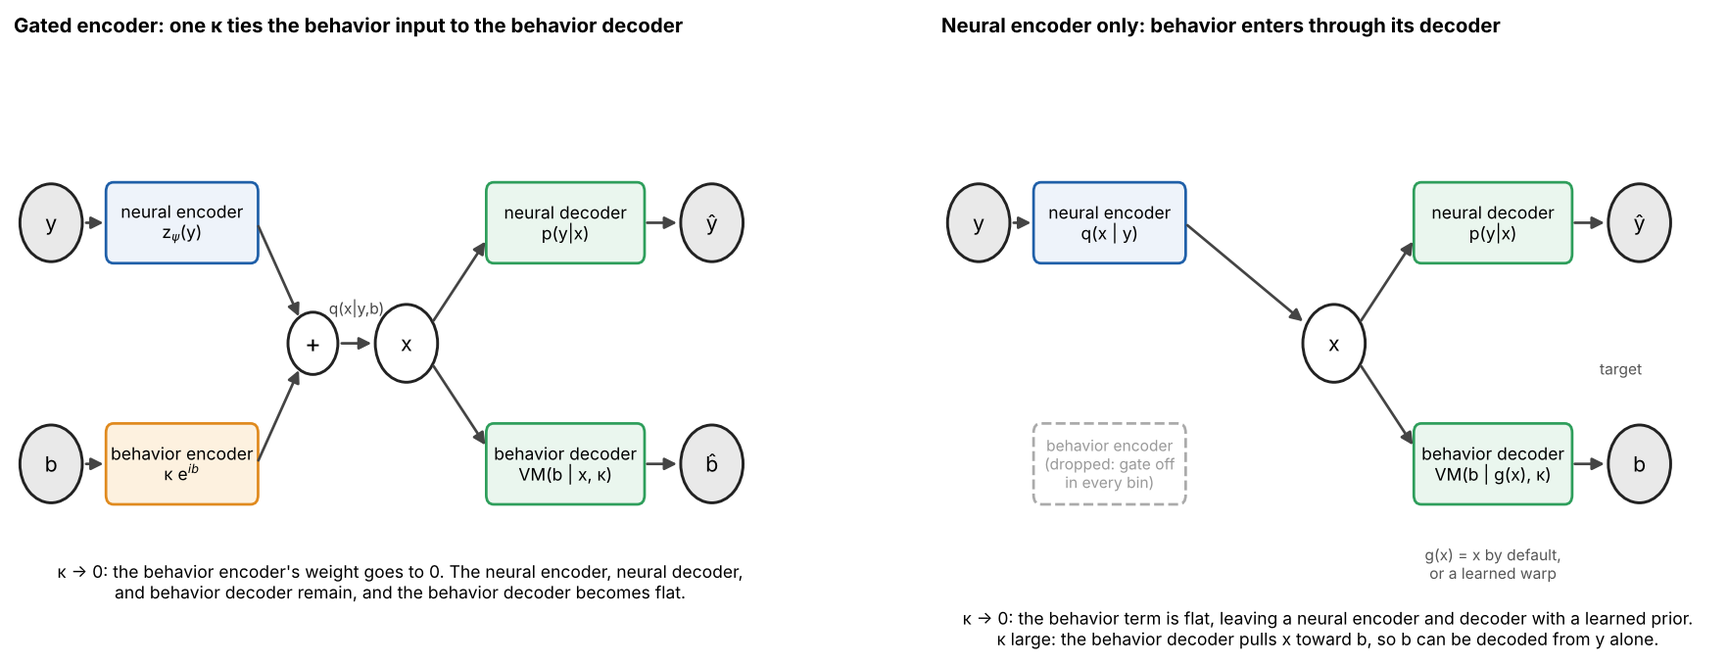
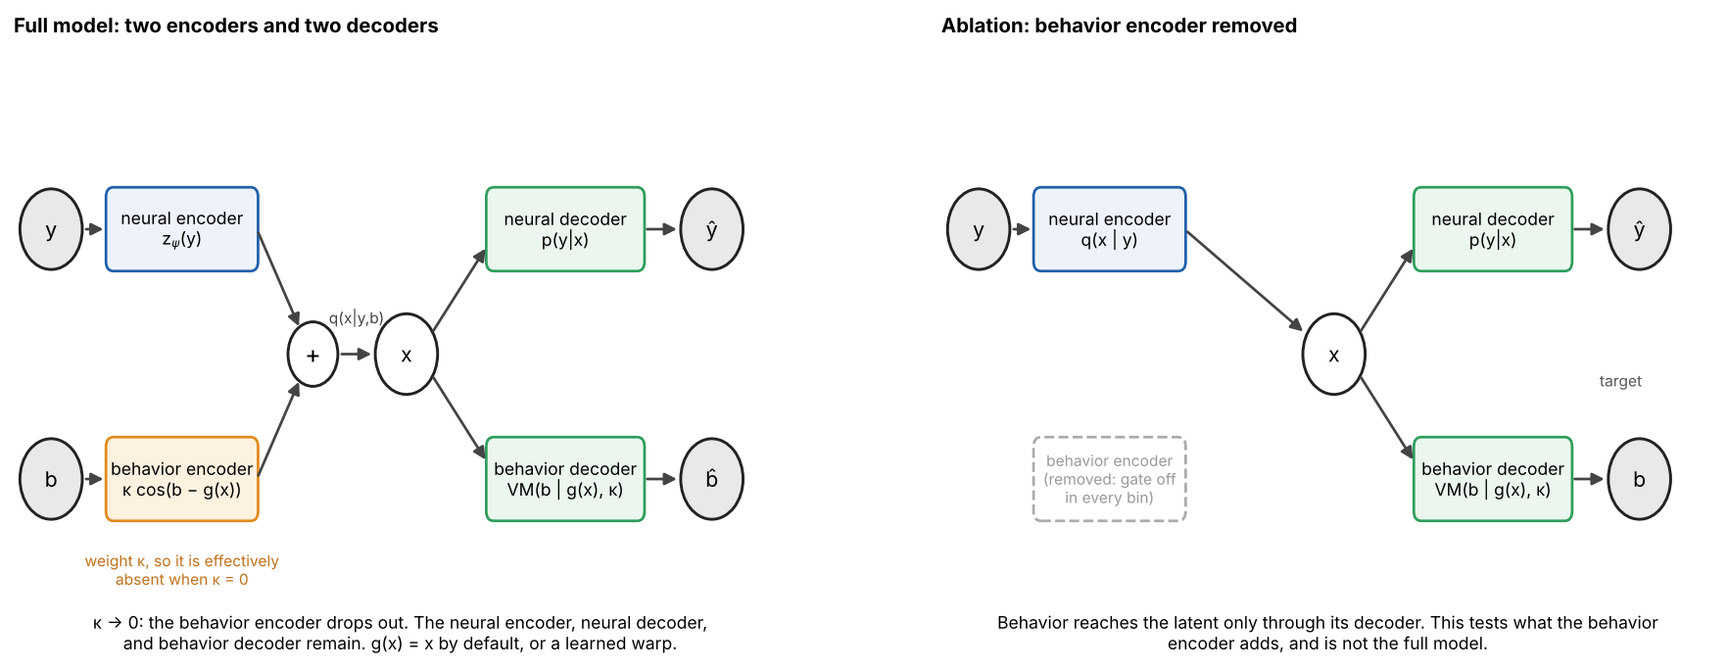
Correct the behavior-encoder framing: full model has both encoders, removal is an ablation; behavior encoder follows a learned decoder; new results, figures, tests

diff --git a/scripts/make_figures.py b/scripts/make_figures.py
@@ -368,22 +368,23 @@ def fig_kernel_results():
 
 # --------------------------------------------------- neural-encoder-only variant
 
-VCOL = {"gated_encoder": "#1f5fa8", "neural_encoder_only": "#e08a1e", "neural_encoder_only_warp": "#2e9e5b"}
-VLAB = {"gated_encoder": "gated encoder", "neural_encoder_only": "neural encoder only",
-        "neural_encoder_only_warp": "neural encoder only + learned behavior decoder"}
+VCOL = {"gated_encoder": "#1f5fa8", "gated_encoder_warp": "#2e9e5b", "neural_encoder_only": "#e08a1e",
+        "neural_encoder_only_warp": "#f2c27a"}
+VLAB = {"gated_encoder": "full model (both encoders)", "gated_encoder_warp": "full model + learned behavior decoder",
+        "neural_encoder_only": "ablation: behavior encoder removed", "neural_encoder_only_warp": "ablation + learned behavior decoder"}
 
 
 def fig_variant():
     r = json.load(open("results/neural_encoder_variant.json"))
     names = list(VCOL)
     fig, axs = plt.subplots(1, 3, figsize=(16, 4.3), gridspec_kw={"wspace": 0.32})
-    w = 0.26
+    w = 0.2
 
     def bars(ax, x, key, metric, per_seed=True):
         for ni, n in enumerate(names):
             vals = [x_[metric] for x_ in r[key[0]][key[1]][n]]
-            ax.bar(x + (ni - 1) * w, np.mean(vals), w, color=VCOL[n])
-            if per_seed: ax.scatter([x + (ni - 1) * w] * len(vals), vals, color="#444444", s=10, zorder=3)
+            ax.bar(x + (ni - 1.5) * w, np.mean(vals), w, color=VCOL[n])
+            if per_seed: ax.scatter([x + (ni - 1.5) * w] * len(vals), vals, color="#444444", s=10, zorder=3)
 
     ax = axs[0]
     ks = ["kappa8", "kappa3", "kappa0.5"]
@@ -397,7 +398,7 @@ def fig_variant():
     ax = axs[1]
     for ci, k in enumerate(["kappa8", "kappa3"]):
         bars(ax, ci, ("weak", k), "kappa")
-        ax.hlines(float(k[5:]), ci - 0.45, ci + 0.45, color="#222222", ls="--", lw=1)
+        ax.hlines(float(k[5:]), ci - 0.5, ci + 0.5, color="#222222", ls="--", lw=1)
     ax.set_xticks(range(2)); ax.set_xticklabels(["true κ = 8", "true κ = 3"]); ax.set_ylabel("learned κ")
     ax.set_title("Weak neural information (N = 8): learned κ", loc="left")
     ax = axs[2]
@@ -406,16 +407,16 @@ def fig_variant():
     ax.scatter([0], [raw], marker="_", s=500, color="#888888", zorder=2)
     for ni, n in enumerate(names):
         k = np.mean([x["kappa"] for x in r["biased"]["kappa6"][n]])
-        ax.text((ni - 1) * w, 0.003, f"κ {k:.1f}", ha="center", va="bottom", fontsize=8, color="white")
+        ax.text((ni - 1.5) * w, 0.003, f"κ {k:.1f}", ha="center", va="bottom", fontsize=7, color="white")
     ax.set_xticks([0]); ax.set_xticklabels(["b = x + 0.4 + 0.5 sin x, κ = 6"])
-    ax.set_xlim(-0.6, 0.6); ax.set_ylabel("error decoding mean behavior from neural activity (rad)")
+    ax.set_xlim(-0.7, 0.7); ax.set_ylabel("error decoding mean behavior from neural activity (rad)")
     ax.set_title("Systematic offset between latent and behavior", loc="left")
     from matplotlib.lines import Line2D
     from matplotlib.patches import Patch
     handles = [Patch(color=VCOL[n], label=VLAB[n]) for n in names] + [
         Line2D([], [], color="#888888", marker="_", ms=14, ls="", label="raw measured behavior (panels 1 and 3)"),
         Line2D([], [], color="#444444", marker="o", ms=4, ls="", label="single seed (bars are means)")]
-    fig.legend(handles=handles, loc="lower center", ncol=5, frameon=False, fontsize=8, bbox_to_anchor=(0.5, -0.1))
+    fig.legend(handles=handles, loc="lower center", ncol=3, frameon=False, fontsize=8, bbox_to_anchor=(0.5, -0.16))
     fig.savefig(f"{OUT}/neural_encoder_variant.png")
     plt.close(fig)
 
@@ -424,34 +425,33 @@ def fig_variant():
 
 def fig_architecture():
     ENC, DEC, BEH = ("#eef3fa", "#1f5fa8"), ("#eaf6ee", "#2e9e5b"), ("#fdf1df", "#e08a1e")
-    fig, axs = plt.subplots(1, 2, figsize=(16, 5.6))
+    fig, axs = plt.subplots(1, 2, figsize=(16, 5.8))
     for ax in axs:
         ax.set_xlim(0, 12.4); ax.set_ylim(0, 7.6); ax.axis("off")
-    # ---- tied gate
     ax = axs[0]
-    ax.set_title("Gated encoder: one κ ties the behavior input to the behavior decoder", loc="left", fontweight="bold", fontsize=10.5)
+    ax.set_title("Full model: two encoders and two decoders", loc="left", fontweight="bold", fontsize=10.5)
     node(ax, (0.6, 5.3), 0.5, "y", fc="#e9e9e9"); node(ax, (0.6, 2.2), 0.5, "b", fc="#e9e9e9")
     box(ax, (1.5, 4.8), 2.4, 1.0, "neural encoder\nz$_ψ$(y)", fc=ENC[0], ec=ENC[1], fs=9)
-    box(ax, (1.5, 1.7), 2.4, 1.0, "behavior encoder\nκ e$^{ib}$", fc=BEH[0], ec=BEH[1], fs=9)
+    box(ax, (1.5, 1.7), 2.4, 1.0, "behavior encoder\nκ cos(b − g(x))", fc=BEH[0], ec=BEH[1], fs=9)
     arrow(ax, (1.1, 5.3), (1.5, 5.3)); arrow(ax, (1.1, 2.2), (1.5, 2.2))
     node(ax, (4.8, 3.75), 0.4, "+", fs=13)
     arrow(ax, (3.9, 5.3), (4.6, 4.05)); arrow(ax, (3.9, 2.2), (4.6, 3.45))
     node(ax, (6.3, 3.75), 0.5, "x")
     arrow(ax, (5.2, 3.75), (5.8, 3.75), "q(x|y,b)", off=(0, 0.45), fs=8)
     box(ax, (7.6, 4.8), 2.5, 1.0, "neural decoder\np(y|x)", fc=DEC[0], ec=DEC[1], fs=9)
-    box(ax, (7.6, 1.7), 2.5, 1.0, "behavior decoder\nVM(b | x, κ)", fc=DEC[0], ec=DEC[1], fs=9)
+    box(ax, (7.6, 1.7), 2.5, 1.0, "behavior decoder\nVM(b | g(x), κ)", fc=DEC[0], ec=DEC[1], fs=9)
     arrow(ax, (6.7, 4.0), (7.6, 5.1)); arrow(ax, (6.7, 3.5), (7.6, 2.4))
     node(ax, (11.2, 5.3), 0.5, "ŷ", fc="#e9e9e9"); node(ax, (11.2, 2.2), 0.5, "b̂", fc="#e9e9e9")
     arrow(ax, (10.1, 5.3), (10.7, 5.3)); arrow(ax, (10.1, 2.2), (10.7, 2.2))
-    ax.text(6.2, 0.95, "κ → 0: the behavior encoder's weight goes to 0. The neural encoder, neural decoder,\nand behavior decoder remain, and the behavior decoder becomes flat.",
+    ax.text(2.7, 1.3, "weight κ, so it is effectively\nabsent when κ = 0", fontsize=8, color="#c0701a", ha="center", va="top")
+    ax.text(6.2, 0.55, "κ → 0: the behavior encoder drops out. The neural encoder, neural decoder,\nand behavior decoder remain. g(x) = x by default, or a learned warp.",
             ha="center", va="top", fontsize=9)
-    # ---- neural encoder only
     ax = axs[1]
-    ax.set_title("Neural encoder only: behavior enters through its decoder", loc="left", fontweight="bold", fontsize=10.5)
+    ax.set_title("Ablation: behavior encoder removed", loc="left", fontweight="bold", fontsize=10.5)
     node(ax, (0.6, 5.3), 0.5, "y", fc="#e9e9e9")
     box(ax, (1.5, 4.8), 2.4, 1.0, "neural encoder\nq(x | y)", fc=ENC[0], ec=ENC[1], fs=9)
     arrow(ax, (1.1, 5.3), (1.5, 5.3))
-    box(ax, (1.5, 1.7), 2.4, 1.0, "behavior encoder\n(dropped: gate off\nin every bin)", fc="white", ec="#aaaaaa", fs=8, ls="--", tc="#999999")
+    box(ax, (1.5, 1.7), 2.4, 1.0, "behavior encoder\n(removed: gate off\nin every bin)", fc="white", ec="#aaaaaa", fs=8, ls="--", tc="#999999")
     node(ax, (6.3, 3.75), 0.5, "x")
     arrow(ax, (3.9, 5.3), (5.85, 4.0))
     box(ax, (7.6, 4.8), 2.5, 1.0, "neural decoder\np(y|x)", fc=DEC[0], ec=DEC[1], fs=9)
@@ -460,8 +460,7 @@ def fig_architecture():
     node(ax, (11.2, 5.3), 0.5, "ŷ", fc="#e9e9e9"); node(ax, (11.2, 2.2), 0.5, "b", fc="#e9e9e9")
     arrow(ax, (10.1, 5.3), (10.7, 5.3)); arrow(ax, (10.1, 2.2), (10.7, 2.2))
     ax.text(10.9, 3.35, "target", fontsize=8, color="#555555", ha="center")
-    ax.text(8.85, 1.15, "g(x) = x by default,\nor a learned warp", fontsize=8, color="#555555", ha="center", va="top")
-    ax.text(6.2, 0.35, "κ → 0: the behavior term is flat, leaving a neural encoder and decoder with a learned prior.\nκ large: the behavior decoder pulls x toward b, so b can be decoded from y alone.",
+    ax.text(6.2, 0.55, "Behavior reaches the latent only through its decoder. This tests what the behavior\nencoder adds, and is not the full model.",
             ha="center", va="top", fontsize=9)
     fig.savefig(f"{OUT}/architecture_variants.png")
     plt.close(fig)

diff --git a/scripts/neural_encoder_variant.py b/scripts/neural_encoder_variant.py
@@ -1,10 +1,13 @@
 """Neural-encoder-only variant versus the gated encoder.
 
-gated_encoder             : the behavior expert enters the encoder with weight kappa (gate on in 90% of
-                            bins during training), and the behavior decoder VM(b | x, kappa) is in the ELBO.
-neural_encoder_only       : the encoder never sees behavior (gate off in every bin). Behavior enters only
-                            through the behavior decoder VM(b | x, kappa), which is kept.
-neural_encoder_only_warp  : as above, with a learned map g(x) from latent to mean behavior (3 harmonics).
+gated_encoder             : the full model. Both encoders are present, and the behavior encoder (a von Mises
+                            expert with weight kappa) drops out as kappa goes to 0. The behavior decoder
+                            VM(b | x, kappa) is in the ELBO. The gate is on in 90% of bins during training.
+gated_encoder_warp        : as above, with a learned map g(x) from latent to mean behavior (3 harmonics).
+                            The behavior encoder uses the same map, kappa cos(b - g(x)).
+neural_encoder_only       : ablation. The behavior encoder is removed (gate off in every bin), and behavior
+                            enters only through the behavior decoder.
+neural_encoder_only_warp  : the ablation with the learned map g(x).
 
 All variants are scored on held-out bins with the behavior input removed at test time: the error of
 decoding behavior from neural activity alone, g(mu(y)) against the noise-free mean behavior, plus held-out
@@ -23,6 +26,7 @@ from amortized_eiv import model as m
 
 VARIANTS = {
     "gated_encoder": dict(p_drop=0.1, cfg={}),
+    "gated_encoder_warp": dict(p_drop=0.1, cfg={"beh_warp": 3}),
     "neural_encoder_only": dict(p_drop=1.0, cfg={}),
     "neural_encoder_only_warp": dict(p_drop=1.0, cfg={"beh_warp": 3}),
 }
@@ -70,8 +74,10 @@ if __name__ == "__main__":
     ap = argparse.ArgumentParser()
     ap.add_argument("--steps", type=int, default=3000)
     ap.add_argument("--seeds", type=int, nargs="+", default=[0, 1])
+    ap.add_argument("--only", nargs="+", default=None, help="run only these variants and merge into the saved results")
     a = ap.parse_args()
-    out = {"strong": {}, "weak": {}, "biased": {}, "noisy": {}}
+    variants = {k: v for k, v in VARIANTS.items() if a.only is None or k in a.only}
+    out = json.load(open("results/neural_encoder_variant.json")) if a.only else {"strong": {}, "weak": {}, "biased": {}, "noisy": {}}
     bias = lambda x: x + 0.4 + 0.5 * np.sin(x)
     for seed in a.seeds:
         sets = [("strong", ae.simulate_shared(seed=seed, N=30, kappas=(8.0, 3.0, 0.5), tuning="gp")),
@@ -79,12 +85,12 @@ if __name__ == "__main__":
                 ("biased", ae.simulate_shared(seed=seed, N=30, kappas=(6.0,), tuning="gp", behavior_map=bias))]
         for grp, d in sets:
             for i, k in enumerate(d["kappas"]):
-                for name, v in VARIANTS.items():
+                for name, v in variants.items():
                     r = score(d, i, v, a.steps, seed)
                     out[grp].setdefault(f"kappa{k:g}", {}).setdefault(name, []).append(r)
                     print(grp, k, seed, name, {x: round(y, 3) for x, y in r.items()}, flush=True)
         json.dump(out, open("results/neural_encoder_variant.json", "w"), indent=2)
-    for name in ("gated_encoder", "neural_encoder_only"):
+    for name in (() if a.only else ("gated_encoder", "neural_encoder_only")):
         out["noisy"][name] = noisy(name, a.steps)
         print("noisy", name, {x: round(y, 3) for x, y in out["noisy"][name].items()}, flush=True)
     json.dump(out, open("results/neural_encoder_variant.json", "w"), indent=2)

diff --git a/amortized_eiv/model.py b/amortized_eiv/model.py
@@ -125,6 +125,19 @@ def log_q_grid(z, cfg: Config):
     return jax.nn.log_softmax(logits, axis=-1)
 
 
+def encoder_logq(params, cfg: Config, feat, b, gate):
+    """log q(x_g | y, b) on the grid. The neural expert is a von Mises term from the network on y.
+    The behavior expert is gate * cos(b - g(x_g)), which is the behavior decoder's likelihood as a
+    function of x. With g = identity this equals adding gate * exp(ib) to the complex parameter,
+    so the behavior encoder is present and drops out as the gate goes to 0."""
+    z_y = _mlp(params["enc"], feat)
+    g = grid(cfg)
+    logits = z_y[:, 0:1] * jnp.cos(g) + z_y[:, 1:2] * jnp.sin(g)
+    gx = beh_mean_at(params, cfg, g)
+    logits = logits + gate[:, None] * jnp.cos(b[:, None] - gx[None, :])
+    return jax.nn.log_softmax(logits, axis=-1)
+
+
 def log_prior_grid(params, cfg: Config):
     g = grid(cfg)
     if not cfg.learn_prior:
@@ -172,8 +185,7 @@ def elbo_per_bin(params, cfg: Config, feat, y, b, cond, gate_mask=None):
     """Per-bin ELBO on log p(y_t, b_t), and the exact grid log marginal."""
     kap = kappas(params, cfg)[cond]
     gate = kap if gate_mask is None else kap * gate_mask
-    z = encoder_z(params, feat, b, gate)
-    logq = log_q_grid(z, cfg)
+    logq = encoder_logq(params, cfg, feat, b, gate)
     joint = (log_prior_grid(params, cfg)[None, :]
              + log_lik_grid(params, cfg, y)
              + log_beh_grid(cfg, b, kap, params))
@@ -214,7 +226,7 @@ def posterior(params, cfg: Config, feat, b, cond, use_behavior=True):
     """Posterior mean direction mu_t, resultant length rho_t, and q on the grid."""
     kap = kappas(params, cfg)[cond]
     gate = kap if use_behavior else jnp.zeros_like(kap)
-    q = jnp.exp(log_q_grid(encoder_z(params, feat, b, gate), cfg))
+    q = jnp.exp(encoder_logq(params, cfg, feat, b, gate))
     c = (q * jnp.exp(1j * grid(cfg))[None, :]).sum(-1)
     return jnp.angle(c), jnp.abs(c), q
 

diff --git a/tests/test_variant.py b/tests/test_variant.py
@@ -34,3 +34,31 @@ def test_simulator_reports_the_mean_behavior():
     err = np.abs(np.angle(np.exp(1j * (d["b"][0] - d["b_mean"]))))
     assert err.mean() < 0.2
     np.testing.assert_allclose(d["b_mean"], f(d["x"]))
+
+
+def test_behavior_encoder_matches_the_complex_parameter_form_and_drops_out_at_zero():
+    d = simulate_shared(seed=2, N=10, T=60, kappas=(3.0,), tuning="gp")
+    y, b = jnp.asarray(d["y"]), jnp.asarray(d["b"][0])
+    cfg = Config(N=10, G=64)
+    p = init_params(jax.random.PRNGKey(0), cfg, y)
+    feat, _ = features(y)
+    gate = jnp.full((60,), 2.5)
+    old = m.log_q_grid(m.encoder_z(p, feat, b, gate), cfg)
+    new = m.encoder_logq(p, cfg, feat, b, gate)
+    np.testing.assert_allclose(old, new, atol=1e-5)                 # identity decoder: same encoder
+    off = m.encoder_logq(p, cfg, feat, b, jnp.zeros(60))
+    np.testing.assert_allclose(off, m.log_q_grid(m.encoder_z(p, feat, b, jnp.zeros(60)), cfg), atol=1e-5)
+
+
+def test_behavior_encoder_follows_the_learned_decoder():
+    d = simulate_shared(seed=3, N=10, T=40, kappas=(3.0,), tuning="gp")
+    y, b = jnp.asarray(d["y"]), jnp.asarray(d["b"][0])
+    cfg = Config(N=10, G=64, beh_warp=2)
+    p = init_params(jax.random.PRNGKey(0), cfg, y)
+    p["warp"] = jnp.array([0.6, 0.2, 0.0, 0.0, 0.0])                # shifts the decoder's mean by 0.6 rad
+    feat, _ = features(y)
+    big = jnp.full((40,), 200.0)                                   # behavior expert dominates
+    mu = np.asarray(jnp.angle((jnp.exp(m.encoder_logq(p, cfg, feat, b, big))
+                               * jnp.exp(1j * m.grid(cfg))[None, :]).sum(-1)))
+    back = np.asarray(m.beh_mean_at(p, cfg, jnp.asarray(mu)))       # g(mu) should land on b
+    assert np.abs(np.angle(np.exp(1j * (back - np.asarray(b))))).mean() < 0.15

diff --git a/README.md b/README.md
@@ -65,7 +65,7 @@ On the ring the latent lives on a grid of 128 points, so the ELBO is an exact su
 - When behavior is nearly noise, the fit reproduces the neural mean rates and covariance.
 - In one dimension the amortized model is not faster, except that learning κ in one fit is about 6 times cheaper than a grid over κ with folds. Baselines can learn κ too.
 - In a 2D latent the amortized model is cheaper per step but fits worse and underestimates κ.
-- A neural-only encoder with a separate behavior decoder (no behavior input) matches the gated encoder with strong neural information and loses with weak information. A learned behavior decoder helps when behavior is offset from the latent.
+- Removing the behavior encoder costs κ accuracy with weak neural information. A learned behavior decoder, with both encoders kept, recovers κ and decodes behavior when behavior is offset from the latent.
 - Replacing the Matérn-type tuning prior with an infinitely wide ReLU network kernel (NNGP) brings no gain over a smoother Matérn prior. Depth 1 fails when tuning curves have energy at odd harmonics above 1.
 
 ![Scorecard against a preprint-style baseline](figures/scorecard.png)
@@ -229,50 +229,56 @@ Setup (`scripts/kernel_comparison.py`, `scripts/kernel_torus2d.py`, about 15 min
 
 In this test an architecture-derived prior brought no advantage over tuning the smoothness of the Matérn prior. Choosing the smoothness by cross-validation, as the preprint does for its kernel hyperparameters, is the better comparison and is untested.
 
-### Neural encoder only, with a separate behavior decoder
+### Both encoders, an ablation, and a learned behavior decoder
 
-The gated encoder ties the behavior input to the behavior decoder through a single κ. An alternative keeps two encoders and two decoders and drops the behavior encoder entirely. The encoder q(x | y) sees only neural activity. Behavior enters only through its decoder p(b | x), which is a von Mises density around the latent with concentration κ, or equivalently through the conditional prior p(x | b). When behavior is noisy, κ goes to 0 and the behavior term is flat. The model is then a neural encoder and decoder with a learned prior. When behavior is clean, the behavior decoder pulls the latent toward behavior, so behavior can be decoded from neural activity alone. In the code this is `fit(..., p_drop=1.0)`, which sets the gate to zero in every bin. The generative model is unchanged.
+The model has a neural encoder and decoder and a behavior encoder and decoder. The behavior encoder is a von Mises term with weight κ, so it is effectively absent when κ is 0. The neural encoder, the neural decoder, and the behavior decoder stay. This is the gated encoder described above. An earlier version of this section presented removing the behavior encoder as a second formulation. It is an ablation, and it is reported here as one.
 
 ![Architecture variants](figures/architecture_variants.png)
 
-*Left: the gated encoder, where one κ sets both the behavior encoder's weight and the behavior decoder's precision. Right: the neural-encoder-only variant, where the behavior encoder is absent and behavior enters through its decoder. In both, setting κ to 0 leaves the neural encoder and decoder in place.*
+*Left: the full model, with a behavior encoder whose weight is κ. Right: the ablation, with the behavior encoder removed so that behavior reaches the latent only through its decoder.*
 
-A further option learns the behavior decoder. With `Config(beh_warp=3)` the mean direction of behavior is g(x) = x + w₀ + Σ (aₖ sin kx + cₖ cos kx), where the weights start at 0 so g starts as the identity. The gate cannot do this, because its behavior input assumes that behavior is centered on the latent.
+Two things are tested against the full model. The ablation removes the behavior encoder in every bin (`fit(..., p_drop=1.0)`). The generative model is unchanged. The learned behavior decoder is selected with `Config(beh_warp=3)`. The mean direction of behavior becomes g(x) = x + w₀ + Σ (aₖ sin kx + cₖ cos kx), where the weights start at 0 so g starts as the identity. The behavior encoder uses the same map, κ cos(b − g(x)), so both encoders stay present.
 
-![Neural encoder only](figures/neural_encoder_variant.png)
+![Variant comparison](figures/neural_encoder_variant.png)
 
 *Left: error of decoding mean behavior from neural activity alone, with strong neural information. Middle: learned κ with weak neural information, with the dashed line at the true value. Right: behavior generated as b = x + 0.4 + 0.5 sin x plus von Mises noise with κ = 6. Grey ticks are the error of the raw measured behavior against the noise-free mean.*
 
-Setup (`scripts/neural_encoder_variant.py`, about 12 minutes). Ring data with 80% of the bins for training and 20% for scoring, κ learned for 3000 steps, and 2 seeds. All variants are scored without the behavior input at test time: the error of g(μ(y)) against the noise-free mean behavior, which is known only in simulation, together with held-out log p(y | b) and learned κ. Strong neural information is N = 30 with GP tuning. Weak is N = 8 with low rates. In the offset data the mean behavior is b = x + 0.4 + 0.5 sin x.
+Setup (`scripts/neural_encoder_variant.py`, about 16 minutes). Ring data with 80% of the bins for training and 20% for scoring, κ learned for 3000 steps, and 2 seeds. All variants are scored without the behavior input at test time: the error of g(μ(y)) against the noise-free mean behavior, which is known only in simulation, together with held-out log p(y | b) and learned κ. Strong neural information is N = 30 with GP tuning. Weak is N = 8 with low rates. In the offset data the mean behavior is b = x + 0.4 + 0.5 sin x.
 
 | Data, true κ | Variant | κ learned | Held-out log p(y given b) | Behavior-decode error (rad), seeds | Raw behavior error (rad) |
 | --- | --- | --- | --- | --- | --- |
-| strong neural information, 8.0 | Gated encoder | 8.01 | −56.563 | 0.073 (0.07, 0.07) | 0.277 |
-| strong neural information, 8.0 | Neural encoder only | 7.81 | −56.560 | 0.072 (0.07, 0.07) | 0.277 |
-| strong neural information, 8.0 | Neural encoder only, learned behavior decoder | 7.89 | −56.558 | 0.073 (0.07, 0.07) | 0.277 |
-| strong neural information, 3.0 | Gated encoder | 2.95 | −57.187 | 0.079 (0.07, 0.08) | 0.537 |
-| strong neural information, 3.0 | Neural encoder only | 2.94 | −57.185 | 0.076 (0.08, 0.08) | 0.537 |
-| strong neural information, 3.0 | Neural encoder only, learned behavior decoder | 2.95 | −57.188 | 0.082 (0.07, 0.09) | 0.537 |
-| strong neural information, 0.5 | Gated encoder | 0.42 | −57.968 | 0.301 (0.26, 0.34) | 1.318 |
-| strong neural information, 0.5 | Neural encoder only | 0.26 | −57.952 | 0.851 (0.22, 1.48) | 1.318 |
-| strong neural information, 0.5 | Neural encoder only, learned behavior decoder | 0.42 | −57.933 | 0.237 (0.22, 0.26) | 1.318 |
-| weak neural information, 8.0 | Gated encoder | 5.47 | −8.383 | 0.578 (0.55, 0.61) | 0.287 |
-| weak neural information, 8.0 | Neural encoder only | 3.45 | −8.411 | 0.636 (0.58, 0.69) | 0.287 |
-| weak neural information, 8.0 | Neural encoder only, learned behavior decoder | 3.44 | −8.411 | 0.622 (0.56, 0.68) | 0.287 |
-| weak neural information, 3.0 | Gated encoder | 2.60 | −8.610 | 0.553 (0.52, 0.58) | 0.520 |
-| weak neural information, 3.0 | Neural encoder only | 2.23 | −8.620 | 0.584 (0.56, 0.60) | 0.520 |
-| weak neural information, 3.0 | Neural encoder only, learned behavior decoder | 2.24 | −8.618 | 0.581 (0.56, 0.60) | 0.520 |
-| offset behavior, 6.0 | Gated encoder | 5.22 | −56.892 | 0.164 (0.15, 0.18) | 0.319 |
-| offset behavior, 6.0 | Neural encoder only | 5.17 | −56.893 | 0.153 (0.13, 0.18) | 0.319 |
-| offset behavior, 6.0 | Neural encoder only, learned behavior decoder | 5.91 | −56.813 | 0.075 (0.08, 0.07) | 0.319 |
+| strong neural information, 8.0 | Full model (both encoders) | 8.01 | −56.563 | 0.073 (0.07, 0.07) | 0.277 |
+| strong neural information, 8.0 | Full model + learned behavior decoder | 8.10 | −56.559 | 0.080 (0.08, 0.08) | 0.277 |
+| strong neural information, 8.0 | Ablation: behavior encoder removed | 7.81 | −56.560 | 0.072 (0.07, 0.07) | 0.277 |
+| strong neural information, 8.0 | Ablation + learned behavior decoder | 7.89 | −56.558 | 0.073 (0.07, 0.07) | 0.277 |
+| strong neural information, 3.0 | Full model (both encoders) | 2.95 | −57.187 | 0.079 (0.07, 0.08) | 0.537 |
+| strong neural information, 3.0 | Full model + learned behavior decoder | 2.97 | −57.190 | 0.084 (0.08, 0.09) | 0.537 |
+| strong neural information, 3.0 | Ablation: behavior encoder removed | 2.94 | −57.185 | 0.076 (0.08, 0.08) | 0.537 |
+| strong neural information, 3.0 | Ablation + learned behavior decoder | 2.95 | −57.188 | 0.082 (0.07, 0.09) | 0.537 |
+| strong neural information, 0.5 | Full model (both encoders) | 0.42 | −57.968 | 0.301 (0.26, 0.34) | 1.318 |
+| strong neural information, 0.5 | Full model + learned behavior decoder | 0.45 | −57.953 | 0.253 (0.27, 0.24) | 1.318 |
+| strong neural information, 0.5 | Ablation: behavior encoder removed | 0.26 | −57.952 | 0.851 (0.22, 1.48) | 1.318 |
+| strong neural information, 0.5 | Ablation + learned behavior decoder | 0.42 | −57.933 | 0.237 (0.22, 0.26) | 1.318 |
+| weak neural information, 8.0 | Full model (both encoders) | 5.47 | −8.383 | 0.578 (0.55, 0.61) | 0.287 |
+| weak neural information, 8.0 | Full model + learned behavior decoder | 5.46 | −8.384 | 0.587 (0.54, 0.63) | 0.287 |
+| weak neural information, 8.0 | Ablation: behavior encoder removed | 3.45 | −8.411 | 0.636 (0.58, 0.69) | 0.287 |
+| weak neural information, 8.0 | Ablation + learned behavior decoder | 3.44 | −8.411 | 0.622 (0.56, 0.68) | 0.287 |
+| weak neural information, 3.0 | Full model (both encoders) | 2.60 | −8.610 | 0.553 (0.52, 0.58) | 0.520 |
+| weak neural information, 3.0 | Full model + learned behavior decoder | 2.61 | −8.609 | 0.546 (0.54, 0.55) | 0.520 |
+| weak neural information, 3.0 | Ablation: behavior encoder removed | 2.23 | −8.620 | 0.584 (0.56, 0.60) | 0.520 |
+| weak neural information, 3.0 | Ablation + learned behavior decoder | 2.24 | −8.618 | 0.581 (0.56, 0.60) | 0.520 |
+| offset behavior, 6.0 | Full model (both encoders) | 5.22 | −56.892 | 0.164 (0.15, 0.18) | 0.319 |
+| offset behavior, 6.0 | Full model + learned behavior decoder | 6.01 | −56.815 | 0.083 (0.09, 0.08) | 0.319 |
+| offset behavior, 6.0 | Ablation: behavior encoder removed | 5.17 | −56.893 | 0.153 (0.13, 0.18) | 0.319 |
+| offset behavior, 6.0 | Ablation + learned behavior decoder | 5.91 | −56.813 | 0.075 (0.08, 0.07) | 0.319 |
 
-- With strong neural information the three variants are indistinguishable at κ = 8 and 3. Learned κ is 7.8 to 8.0 and 2.94 to 2.95, held-out scores agree to 3 decimals, and behavior-decode error is 0.07 to 0.08 rad against 0.28 to 0.54 for raw behavior.
-- At κ = 0.5 the neural-only encoder failed on one of two seeds (decode error 0.22 and 1.48, against 0.26 and 0.34 for the gated encoder). With no behavior input and little behavioral information, nothing pins the coordinate frame of the latent. Held-out score is unaffected, since behavior says little about y at low κ. This is two seeds and is an observation, not a rate.
-- With weak neural information the neural-only encoder is worse. Learned κ is 3.45 against 5.47 at true κ = 8, and 2.23 against 2.60 at 3. Decode error is 0.64 against 0.58, and 0.58 against 0.55. Held-out differs by 0.03 and 0.01 nats per bin. This is the amortization gap again. An encoder that must infer x from few spikes underestimates κ, and the gate helps by supplying behavior.
-- The learned behavior decoder helps when behavior is offset from the latent. Behavior-decode error is 0.075 against 0.15 to 0.16 with the identity decoder, learned κ is 5.91 against 5.2 (true 6), and held-out is 0.08 nats per bin better. The tuning curves absorb part of an offset, which is why the identity versions are not worse by more. The gated encoder has no way to represent the offset.
-- With nearly noise behavior (κ = 0.1, T = 3000, one seed) both variants become neural generative models. Learned κ is 0.108 and 0.119. Samples from the learned prior match the data in mean rate (r = 0.988 and 0.986) and neural covariance (r = 0.997 and 0.996). The aligned latent error differs, at 0.34 and 0.76 rad. The runs differ in their training-time gate and random stream, so I treat that as run-to-run variation, and it was not tested.
+- With strong neural information the four variants are alike at κ = 8 and 3. Learned κ is 7.8 to 8.1 and 2.94 to 2.97, held-out scores agree within 0.004 nats per bin, and behavior-decode error is 0.07 to 0.08 rad against 0.28 and 0.54 for raw behavior.
+- At κ = 0.5 the full model kept the latent's coordinate frame on both seeds, with and without the learned decoder (decode error 0.26 and 0.34, and 0.27 and 0.24). The ablation without the learned decoder failed on one of two seeds (0.22 and 1.48). With the learned decoder it did not (0.22 and 0.26). This is two seeds and is an observation, not a rate.
+- With weak neural information the full model learns a κ closer to the truth. At true κ = 8 it learns 5.46 to 5.47 against 3.44 to 3.45 for the ablations, and at true κ = 3 it learns 2.60 to 2.61 against 2.23 to 2.24. Held-out differs by 0.03 and 0.01 nats per bin. Without the behavior encoder, the encoder has to infer x from few spikes, so κ is underestimated. This is the amortization gap again. Decoding behavior from eight neurons alone is worse than the raw measurement in every variant.
+- With a systematic offset between latent and behavior, the learned behavior decoder helps. With the identity decoder the full model has decode error 0.164 and κ of 5.22. With the learned decoder it has 0.083 and 6.01 (true 6), and held-out improves by 0.08 nats per bin. The ablation with the learned decoder gives 0.075 and 5.91. The tuning curves absorb part of an offset, which is why the identity versions are not worse by more.
+- With nearly noise behavior (κ = 0.1, T = 3000, one seed), the full model and the ablation both become neural generative models. Learned κ is 0.108 and 0.119. Samples from the learned prior match the data in mean rate (r = 0.988 and 0.986) and neural covariance (r = 0.997 and 0.996). The aligned latent error differs, at 0.34 and 0.76 rad. The runs differ in their training-time gate and random stream, so I treat that as run-to-run variation, and it was not tested.
 
-The neural-encoder-only formulation matches the gated encoder when neural information is strong and loses when it is weak. It is the more general of the two, because its behavior decoder is separate and can be learned.
+The full model with a learned behavior decoder was within 0.02 rad of the best decode error in every setting, and it had the best or tied-best κ in the weak-information and offset settings. Removing the behavior encoder cost κ accuracy with weak neural information and, on one seed, the latent's coordinate frame.
 
 ## Design notes
 
@@ -282,9 +288,9 @@ What the approach enables. Learning κ by gradient does not need the encoder. Ba
 
 Why behavior gates the encoder input. Given the latent, the behavior term is a von Mises density, exp(κ cos(b − x)), with complex parameter κ e^{ib}. Von Mises densities multiply by adding their complex parameters, so the exact posterior is z = z_ψ(y) + κ e^{ib}, and the gate is κ itself with no extra trust parameters. This is exact on the ring if z_ψ is read as an amortized likelihood and the prior is flat. On the torus the encoder is a Gaussian network with behavior scaled by κ as an input, which is not exact. The gate has not been compared with concatenating b into the network.
 
-Two formulations. In the gated encoder one κ sets both the behavior encoder's weight and the behavior decoder's precision. In the neural-encoder-only version the behavior encoder is absent and behavior enters through its decoder. With κ = 0, both keep the neural encoder, the neural decoder, and the behavior decoder, and the behavior decoder becomes flat. With strong neural information they perform alike. With weak neural information the gate is better, and with a systematic offset between latent and behavior the learned behavior decoder is better.
+Encoders and decoders. The model has a neural encoder and decoder and a behavior encoder and decoder. The behavior encoder is a von Mises term with weight κ, so it is effectively absent at κ = 0 while the neural encoder, the neural decoder, and the behavior decoder remain. Removing the behavior encoder is an ablation. With strong neural information it makes no difference. With weak neural information it lowers the learned κ, and on one seed at κ = 0.5 it lost the latent's coordinate frame. A learned behavior decoder, with the behavior encoder kept consistent with it, handles a systematic offset between latent and behavior.
 
-The prior when behavior is noisy. The conditional prior is p(x | b) ∝ p_φ(x) VM(b | x, κ). As κ goes to 0 it becomes p_φ(x), which is fit to the latents that the neural data occupy. The model is then a neural VAE with a learned prior, and samples from it match the data's mean rates and covariance. A network that learns p(x | b) directly, as in the original sketch, is not implemented. The learned behavior decoder is the closest analogue.
+The prior when behavior is noisy. The conditional prior is p(x | b) ∝ p_φ(x) VM(b | x, κ). As κ goes to 0 it becomes p_φ(x), which is fit to the latents that the neural data occupy. The model is then a neural VAE with a learned prior, and samples from it match the data's mean rates and covariance. A network that learns p(x | b) directly, as in the original sketch, is not implemented. The learned behavior decoder, with the matching behavior encoder, is the closest analogue.
 
 The tuning prior. The decoder's weight prior is the weight-space form of a Gaussian process with a Matérn-type spectrum. An infinitely wide ReLU network kernel (NNGP) is available as an option and gave no advantage over a smoother Matérn prior. This is the NNGP and not the neural tangent kernel, because the latent is learned and the tangent kernel's fixed-feature regime does not apply.
 
@@ -300,7 +306,7 @@ Against the preprint's approach. On the ring, learning κ in one fit is about 6 
 - Not compared against the authors' code, which is not public as far as I could find. The preprint refers to "the software package" without a link. The speed comparisons use stand-in baselines, and an L-BFGS baseline was tried. The preprint's own implementation was not.
 - The speed results are from one dataset, one fold, and a one-dimensional latent. In the 2D torus the amortized model was cheaper per step but did not match the integrators' fit quality or recover κ. Latents of three or more dimensions are untested.
 - The kernel comparison uses two seeds and simulated data. The default Matérn hyperparameters were not tuned, and only a ReLU network without bias was tried, with depth as the only architecture choice. Real tuning curves were not tested.
-- The neural-encoder-only comparison uses two seeds and simulated data. The learned behavior decoder has 3 harmonics, and the offset it recovers was built into the simulation.
+- The behavior-encoder comparison uses two seeds and simulated data. The learned behavior decoder has 3 harmonics, and the offset it recovers was built into the simulation.
 - One κ per condition. There is no within-condition drift, no dynamical prior, and no multi-region coupling. The ring latent is a grid of 128 points, a fixed approximation.
 
 ## Next steps
@@ -328,7 +334,7 @@ python scripts/benchmark_torus2d.py     # 2D torus benchmark, about 11 minutes
 python scripts/kernel_comparison.py     # ring tuning-prior comparison, about 10 minutes
 python scripts/kernel_comparison.py --control   # Matérn smoothness control, about 3 minutes
 python scripts/kernel_torus2d.py        # torus tuning-prior comparison, about 5 minutes
-python scripts/neural_encoder_variant.py   # neural-only encoder and learned behavior decoder, about 12 minutes
+python scripts/neural_encoder_variant.py   # behavior-encoder ablation and learned behavior decoder, about 16 minutes
 python scripts/make_figures.py          # rebuild figures/ from the saved results
 ```
 
